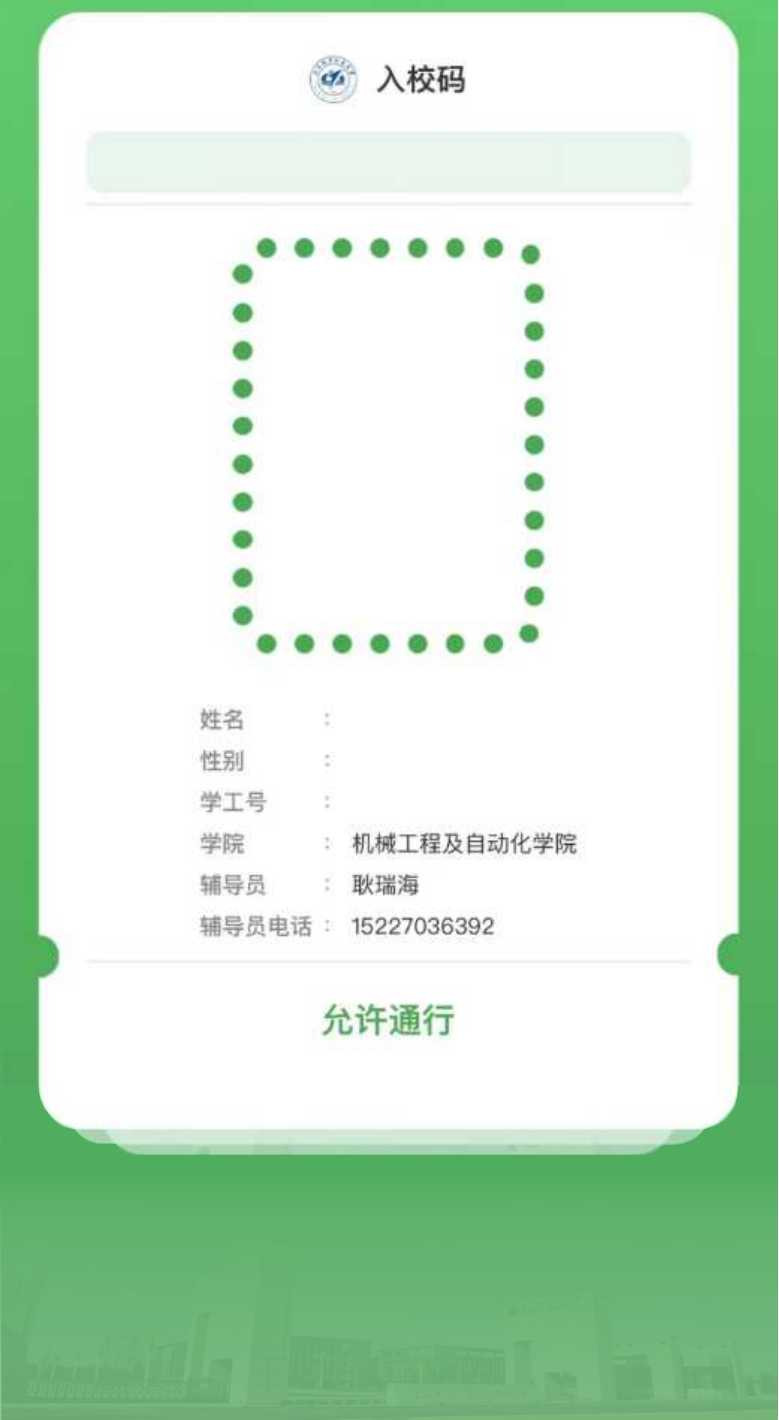
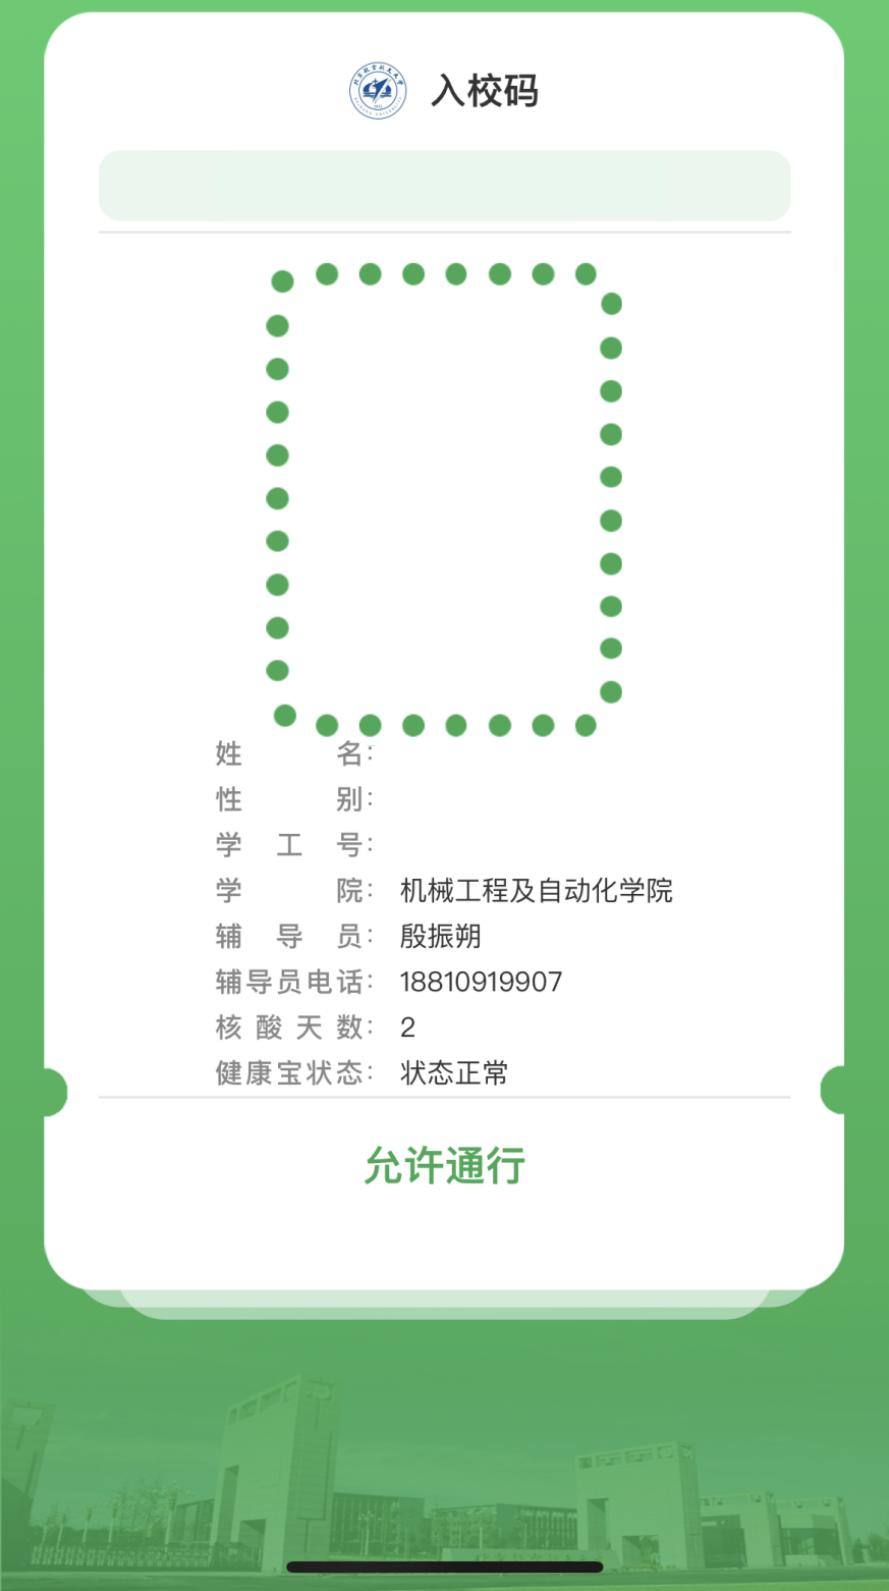
update background img

diff --git a/index.html b/index.html
@@ -4,7 +4,7 @@
 <head>
   <meta charset="UTF-8" />
   <meta name="viewport" content="width=device-width, initial-scale=1.0" />
-  <title>通行卡</title>
+  <title>校园卡</title>
   <style>
     button {
       border: none;
@@ -71,7 +71,6 @@
 
     #enterMain {
       background: #60ce6d;
-      display: none;
     }
 
     .enter-text {
@@ -83,15 +82,15 @@
     }
 
     #enter-name {
-      bottom: 88.3vw
+      bottom: 92.3vw
     }
 
     #enter-gender {
-      bottom: 83vw;
+      bottom: 87.2vw;
     }
 
     #enter-id {
-      bottom: 78vw;
+      bottom: 82.4vw;
     }
 
     .enter-code {
@@ -111,10 +110,10 @@
 
     #enter-img {
       position: absolute;
-      width: 22.2vw;
-      left: 49.8vw;
+      width: 23.9vw;
+      left: 50vw;
       transform: translateX(-50%);
-      bottom: 167.85vw;
+      bottom: 164.2vw;
       display: block;
     }
 
@@ -132,7 +131,7 @@
     #enter-avatar {
       position: absolute;
       width: 33.5vw;
-      bottom: 103.5vw;
+      bottom: 100.5vw;
       left: 50vw;
       transform: translateX(-50%);
     }
@@ -140,7 +139,7 @@
     #enter-dateTime {
       position: absolute;
       left: 50vw;
-      bottom: 159vw;
+      bottom: 156vw;
       font-size: 4vw;
       transform: translateX(-50%);
       color: #67ba67;
@@ -149,14 +148,6 @@
 </head>
 
 <body style="width: 100%; height: 100%; margin: 0;">
-  <div class="main" id="passMain">
-    <!-- 通行码页面 -->
-    <img class="pass-code" src="./imgs/passCode.jpg" />
-    <div class="pass-text" id="pass-name"></div>
-    <div class="pass-text" id="pass-id"></div>
-    <div id="pass-dateTime"></div>
-    <button id="enter-button" onclick="enter()"></button>
-  </div>
   <div class="main" id="enterMain">
     <!-- 出入校码页面 -->
     <img class="enter-code" src="./imgs/enterCode.jpg" />
@@ -170,29 +161,19 @@
     <div class="enter-text" id="enter-id"></div>
   </div>
   <script>
-    var isHome = true;
     var isIn = false;
     var today = new Date();
     const scanTime = today.getFullYear() + "-" + (today.getMonth() + 1) + "-" + today.getDate() + " " + today.getHours() + ":" + today.getMinutes() + ":" + today.getSeconds();
-    document.getElementById('pass-dateTime').innerHTML = scanTime;
     const queryString = window.location.search;
     const urlParams = new URLSearchParams(queryString);
     const name = urlParams.get("n");
     const gender = urlParams.get("g");
     const id = urlParams.get("i");
     const avatar = urlParams.get("a");
-    document.getElementById('pass-name').innerHTML = name;
-    document.getElementById('pass-id').innerHTML = id;
     document.getElementById('enter-name').innerHTML = name;
     document.getElementById('enter-gender').innerHTML = gender;
     document.getElementById('enter-id').innerHTML = id;
     document.getElementById('enter-avatar').src = './imgs/avatar/' + avatar + '.jpg';
-    function enter() {
-      isHome = false;
-      document.getElementById('passMain').style.display = 'none';
-      document.getElementById('enterMain').style.display = 'block';
-      document.title = '校园卡'
-    }
     function state() {
       isIn = !isIn;
       if (isIn) {
